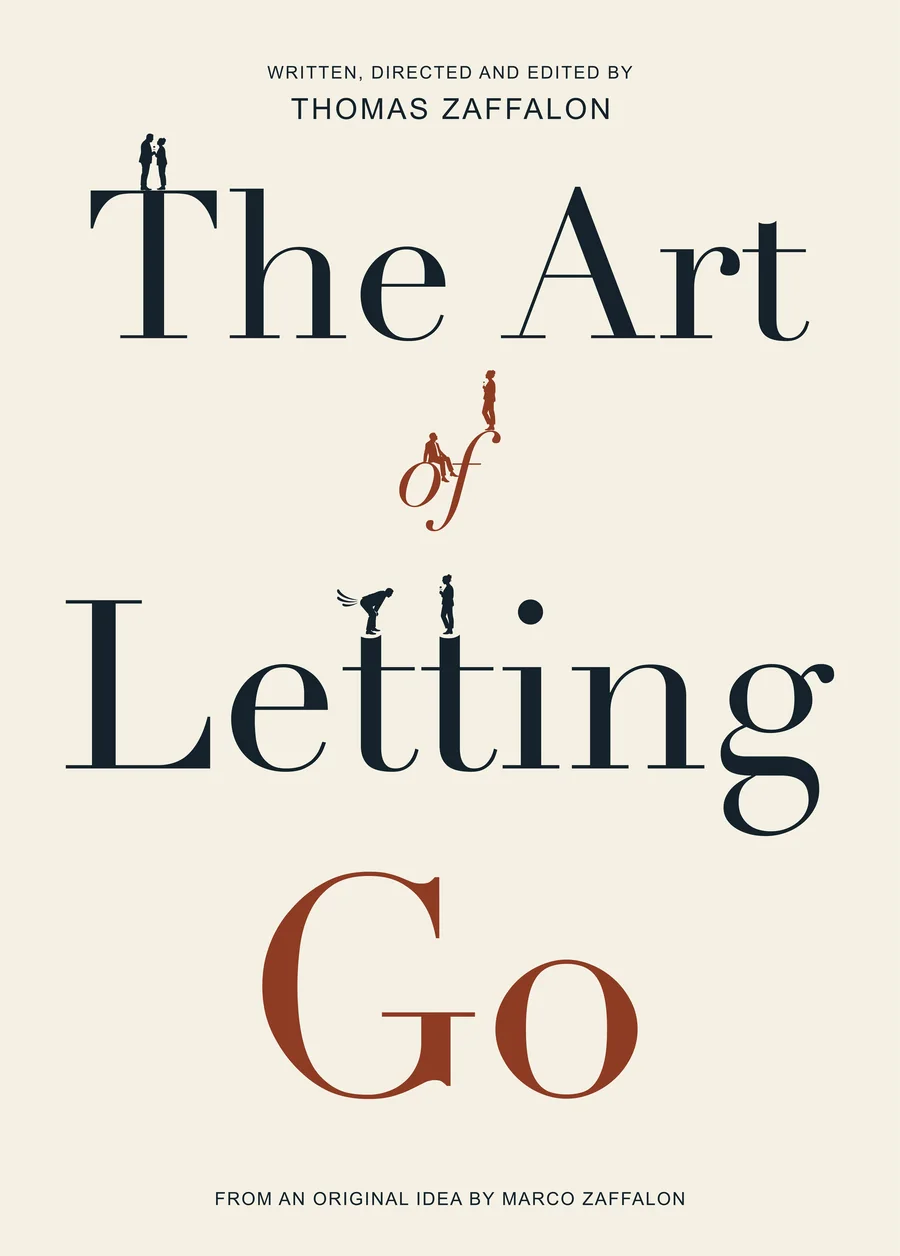
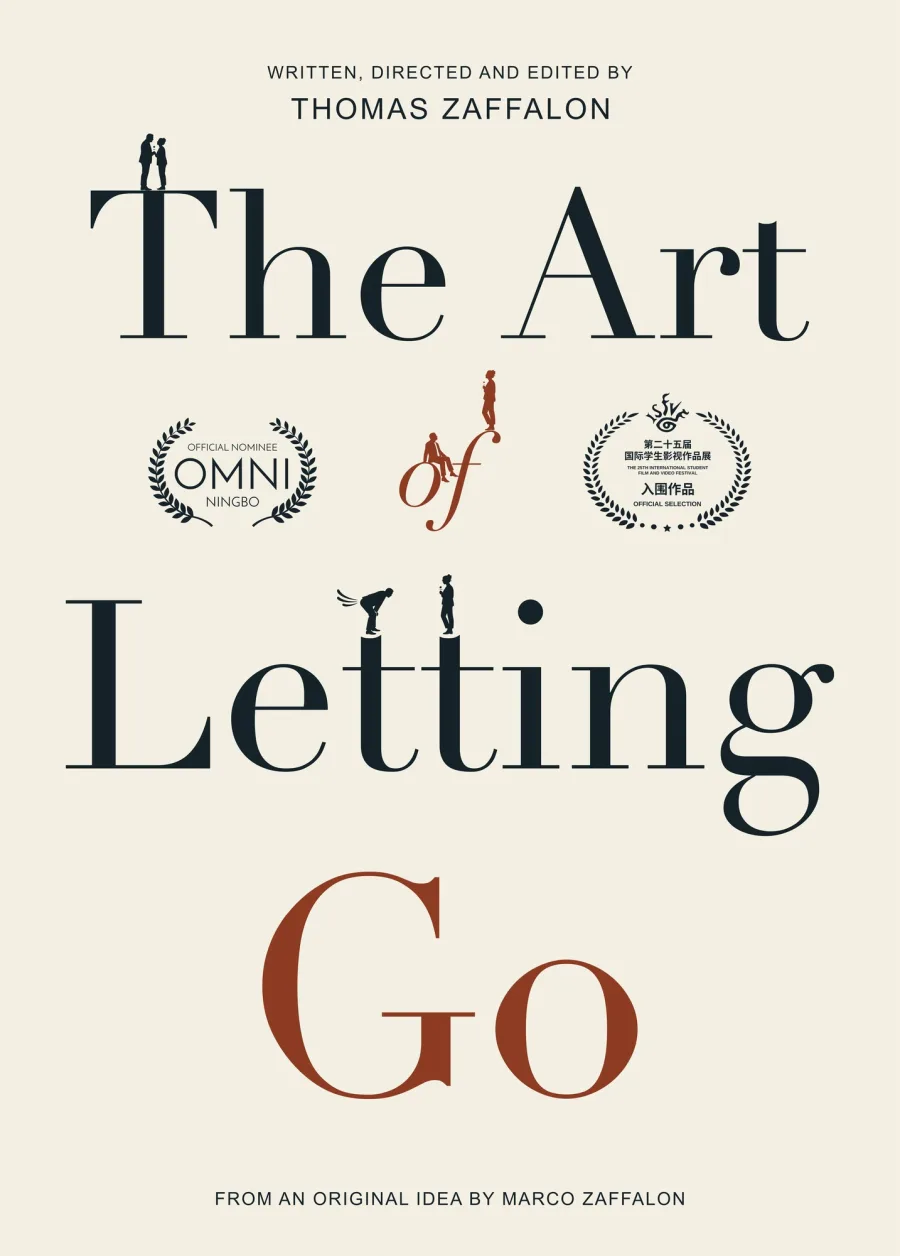
Racconta cosa ho costruito per il Merge e aggiorna le selezioni dei corti
- Merge Film Festival: in Apps passa in cima e la descrizione elenca la
  piattaforma (biglietti e accrediti con Stripe e TWINT, mail con Resend,
  scanner QR, voto del pubblico, sottotitoli tradotti in tempo reale).
  In Jobs il ruolo diventa CTO · Creative Technologist, come sul sito
  del festival, e la home dice cosa ho fatto lì.
- Short Films: The Art of Letting Go è Official Selection al 25° ISFVF
  (Beijing Film Academy) e Official Nominee a OMNI Ningbo; You Know What
  They Say... aggiunge OMNI Ningbo a TICFF. Locandine nuove con i laurel.
- Home: "01 Mention at RAIF Rome" diventa "05 Festival selections".
- Sitemap: lastmod aggiornato per le pagine toccate.

Changed region(s): [[0.1556, 0.3105, 0.3733, 0.4347], [0.6533, 0.3105, 0.84, 0.4347], [0.7778, 0.4037, 0.8089, 0.4347]]

diff --git a/apps/index.html b/apps/index.html
@@ -4,9 +4,9 @@
   <meta charset="UTF-8">
   <title>Apps &amp; Websites — Thomas Zaffalon</title>
 
-  <meta name="description" content="Websites and apps built by Thomas Zaffalon: La Brace, Keyo Tattoo Studio, Samuel Rhawi, Merge Film Festival and PoPaCi Studio. Hand-coded in Lugano.">
+  <meta name="description" content="Websites and apps built by Thomas Zaffalon: the Merge Film Festival platform, PoPaCi Studio, Pasta Lovers, La Brace, Keyo Tattoo Studio and more.">
   <meta name="author" content="Thomas Zaffalon">
-  <meta name="keywords" content="Thomas Zaffalon apps, Pasta Lovers, La Brace, Keyo Tattoo Studio, Ondus Tattoo, Samuel Rhawi, Merge Film Festival, PoPaCi, PoPaCi Studio, management platform, Next.js, React, Supabase, full-stack, Pronto Pizza da Fabio, Echo Maze, TurnTale, WeathAff, web development, custom websites, Lugano, portfolio">
+  <meta name="keywords" content="Thomas Zaffalon apps, Pasta Lovers, La Brace, Keyo Tattoo Studio, Ondus Tattoo, Samuel Rhawi, Merge Film Festival, festival ticketing, Stripe, TWINT, Resend, live captions, real-time translation, audience vote, QR check-in, PoPaCi, PoPaCi Studio, management platform, Next.js, React, Supabase, full-stack, Pronto Pizza da Fabio, Echo Maze, TurnTale, WeathAff, web development, custom websites, Lugano, portfolio">
 
   <meta name="viewport" content="width=device-width, initial-scale=1.0">
   <meta name="theme-color" content="#0a0a0b">
@@ -49,14 +49,14 @@
           "@type": "ItemList",
           "itemListOrder": "https://schema.org/ItemListOrderDescending",
           "itemListElement": [
-            {"@type": "ListItem", "position": 1, "item": {"@type": "WebSite", "name": "Pasta Lovers", "url": "https://pastalovers.com.au", "creator": {"@type": "Person", "name": "Thomas Zaffalon"}}},
-            {"@type": "ListItem", "position": 2, "item": {"@type": "WebSite", "name": "La Brace", "url": "https://labrace.ch", "creator": {"@type": "Person", "name": "Thomas Zaffalon"}}},
-            {"@type": "ListItem", "position": 3, "item": {"@type": "WebApplication", "name": "PoPaCi Studio", "url": "https://studio.popaci.com", "applicationCategory": "BusinessApplication", "author": {"@type": "Person", "name": "Thomas Zaffalon"}}},
-            {"@type": "ListItem", "position": 4, "item": {"@type": "WebSite", "name": "Keyo Tattoo Studio", "url": "https://keyotattoostudio.ch", "creator": {"@type": "Person", "name": "Thomas Zaffalon"}}},
-            {"@type": "ListItem", "position": 5, "item": {"@type": "VideoGame", "name": "Echo Maze", "url": "https://www.echomaze.quest", "applicationCategory": "Game", "author": {"@type": "Person", "name": "Thomas Zaffalon"}}},
-            {"@type": "ListItem", "position": 6, "item": {"@type": "WebSite", "name": "Samuel Rhawi By Nursel", "url": "https://samuelrhawibynursel.com", "creator": {"@type": "Person", "name": "Thomas Zaffalon"}}},
-            {"@type": "ListItem", "position": 7, "item": {"@type": "WebSite", "name": "Ondus Tattoo", "url": "https://www.ondustattoo.ink", "creator": {"@type": "Person", "name": "Thomas Zaffalon"}}},
-            {"@type": "ListItem", "position": 8, "item": {"@type": "WebSite", "name": "Merge Film Festival", "url": "https://www.mergefestival.ch", "creator": {"@type": "Person", "name": "Thomas Zaffalon"}}},
+            {"@type": "ListItem", "position": 1, "item": {"@type": "WebSite", "name": "Merge Film Festival", "url": "https://www.mergefestival.ch", "description": "Site and festival platform: passes, ticketing, payments, QR check-in, audience vote and live translated captions.", "creator": {"@type": "Person", "name": "Thomas Zaffalon"}}},
+            {"@type": "ListItem", "position": 2, "item": {"@type": "WebSite", "name": "Pasta Lovers", "url": "https://pastalovers.com.au", "creator": {"@type": "Person", "name": "Thomas Zaffalon"}}},
+            {"@type": "ListItem", "position": 3, "item": {"@type": "WebSite", "name": "La Brace", "url": "https://labrace.ch", "creator": {"@type": "Person", "name": "Thomas Zaffalon"}}},
+            {"@type": "ListItem", "position": 4, "item": {"@type": "WebApplication", "name": "PoPaCi Studio", "url": "https://studio.popaci.com", "applicationCategory": "BusinessApplication", "author": {"@type": "Person", "name": "Thomas Zaffalon"}}},
+            {"@type": "ListItem", "position": 5, "item": {"@type": "WebSite", "name": "Keyo Tattoo Studio", "url": "https://keyotattoostudio.ch", "creator": {"@type": "Person", "name": "Thomas Zaffalon"}}},
+            {"@type": "ListItem", "position": 6, "item": {"@type": "VideoGame", "name": "Echo Maze", "url": "https://www.echomaze.quest", "applicationCategory": "Game", "author": {"@type": "Person", "name": "Thomas Zaffalon"}}},
+            {"@type": "ListItem", "position": 7, "item": {"@type": "WebSite", "name": "Samuel Rhawi By Nursel", "url": "https://samuelrhawibynursel.com", "creator": {"@type": "Person", "name": "Thomas Zaffalon"}}},
+            {"@type": "ListItem", "position": 8, "item": {"@type": "WebSite", "name": "Ondus Tattoo", "url": "https://www.ondustattoo.ink", "creator": {"@type": "Person", "name": "Thomas Zaffalon"}}},
             {"@type": "ListItem", "position": 9, "item": {"@type": "WebSite", "name": "PoPaCi", "url": "https://www.popaci.com", "creator": {"@type": "Person", "name": "Thomas Zaffalon"}}},
             {"@type": "ListItem", "position": 10, "item": {"@type": "WebSite", "name": "Pronto Pizza da Fabio", "url": "https://www.ristoranteppdafabio.it", "creator": {"@type": "Person", "name": "Thomas Zaffalon"}}},
             {"@type": "ListItem", "position": 11, "item": {"@type": "MobileApplication", "name": "TurnTale", "url": "https://turntale-indol.vercel.app", "applicationCategory": "GameApplication", "author": {"@type": "Person", "name": "Thomas Zaffalon"}}},
@@ -134,9 +134,33 @@
 
     <ul class="plist">
 
+      <li class="pitem" data-hover-img="/images/mff.jpg">
+        <a class="pitem__link" href="https://www.mergefestival.ch" target="_blank" rel="noopener" data-cursor="Visit">
+          <span class="pitem__idx">01</span>
+          <div class="pitem__head">
+            <h2 class="pitem__title">Merge Film Festival</h2>
+            <div class="pitem__tags">
+              <span class="tag">Website &amp; Platform</span>
+              <span class="tag tag--hl">Supabase · Stripe · Resend</span>
+              <span class="tag">2026</span>
+            </div>
+          </div>
+          <figure class="pitem__thumb"><img src="/images/mff.jpg" alt="" loading="lazy"></figure>
+          <p class="pitem__desc">
+            The first Swiss festival for films made with artificial
+            intelligence, founded by my former CISA classmates. It started as
+            a site in four languages and became the festival's whole system:
+            passes and tickets paid by card or TWINT, emails through Resend,
+            QR scanning at the door, the audience vote and live captions
+            translated in real time during the talks.
+          </p>
+          <span class="pitem__go">Live <svg viewBox="0 0 12 12" fill="none" aria-hidden="true"><path d="M2 10 10 2M4 2h6v6" stroke="currentColor" stroke-width="1.3"/></svg></span>
+        </a>
+      </li>
+
       <li class="pitem" data-hover-img="/images/pastalovers.png">
         <a class="pitem__link" href="https://pastalovers.com.au" target="_blank" rel="noopener" data-cursor="Visit">
-          <span class="pitem__idx">01</span>
+          <span class="pitem__idx">02</span>
           <div class="pitem__head">
             <h2 class="pitem__title">Pasta Lovers</h2>
             <div class="pitem__tags">
@@ -158,7 +182,7 @@
 
       <li class="pitem" data-hover-img="/images/labrace.png">
         <a class="pitem__link" href="https://labrace.ch" target="_blank" rel="noopener" data-cursor="Visit">
-          <span class="pitem__idx">02</span>
+          <span class="pitem__idx">03</span>
           <div class="pitem__head">
             <h2 class="pitem__title">La Brace</h2>
             <div class="pitem__tags">
@@ -181,7 +205,7 @@
 
       <li class="pitem" data-hover-img="/images/popaci_studio.jpg">
         <a class="pitem__link" href="https://studio.popaci.com" target="_blank" rel="noopener" data-cursor="Visit">
-          <span class="pitem__idx">03</span>
+          <span class="pitem__idx">04</span>
           <div class="pitem__head">
             <h2 class="pitem__title">PoPaCi Studio</h2>
             <div class="pitem__tags">
@@ -206,7 +230,7 @@
 
       <li class="pitem" data-hover-img="/images/keyo.jpg">
         <a class="pitem__link" href="https://keyotattoostudio.ch" target="_blank" rel="noopener" data-cursor="Visit">
-          <span class="pitem__idx">04</span>
+          <span class="pitem__idx">05</span>
           <div class="pitem__head">
             <h2 class="pitem__title">Keyo Tattoo Studio</h2>
             <div class="pitem__tags">
@@ -227,7 +251,7 @@
 
       <li class="pitem" data-hover-img="/images/echo_maze.svg">
         <a class="pitem__link" href="https://www.echomaze.quest" target="_blank" rel="noopener" data-cursor="Play">
-          <span class="pitem__idx">05</span>
+          <span class="pitem__idx">06</span>
           <div class="pitem__head">
             <h2 class="pitem__title">Echo Maze</h2>
             <div class="pitem__tags">
@@ -247,7 +271,7 @@
 
       <li class="pitem" data-hover-img="/images/samuel-rhawi.webp">
         <a class="pitem__link" href="https://samuelrhawibynursel.com" target="_blank" rel="noopener" data-cursor="Visit">
-          <span class="pitem__idx">06</span>
+          <span class="pitem__idx">07</span>
           <div class="pitem__head">
             <h2 class="pitem__title">Samuel Rhawi By Nursel</h2>
             <div class="pitem__tags">
@@ -268,7 +292,7 @@
 
       <li class="pitem" data-hover-img="/images/ondus.jpg">
         <a class="pitem__link" href="https://www.ondustattoo.ink" target="_blank" rel="noopener" data-cursor="Visit">
-          <span class="pitem__idx">07</span>
+          <span class="pitem__idx">08</span>
           <div class="pitem__head">
             <h2 class="pitem__title">Ondus Tattoo</h2>
             <div class="pitem__tags">
@@ -282,28 +306,6 @@
             My first site for an independent business with no presence online
             at all. The look was already there in the studio. My job was
             getting it onto a screen without losing it.
-          </p>
-          <span class="pitem__go">Live <svg viewBox="0 0 12 12" fill="none" aria-hidden="true"><path d="M2 10 10 2M4 2h6v6" stroke="currentColor" stroke-width="1.3"/></svg></span>
-        </a>
-      </li>
-
-      <li class="pitem" data-hover-img="/images/mff.jpg">
-        <a class="pitem__link" href="https://www.mergefestival.ch" target="_blank" rel="noopener" data-cursor="Visit">
-          <span class="pitem__idx">08</span>
-          <div class="pitem__head">
-            <h2 class="pitem__title">Merge Film Festival</h2>
-            <div class="pitem__tags">
-              <span class="tag">Website</span>
-              <span class="tag tag--hl">First Swiss AI film festival</span>
-              <span class="tag">2026</span>
-            </div>
-          </div>
-          <figure class="pitem__thumb"><img src="/images/mff.jpg" alt="" loading="lazy"></figure>
-          <p class="pitem__desc">
-            The first Swiss festival for films made with artificial
-            intelligence, founded by my former CISA classmates. They asked for
-            something minimal, fast and clear about what the festival actually
-            is.
           </p>
           <span class="pitem__go">Live <svg viewBox="0 0 12 12" fill="none" aria-hidden="true"><path d="M2 10 10 2M4 2h6v6" stroke="currentColor" stroke-width="1.3"/></svg></span>
         </a>

diff --git a/shortfilms/index.html b/shortfilms/index.html
@@ -4,9 +4,9 @@
   <meta charset="UTF-8">
   <title>Short Films — Thomas Zaffalon</title>
 
-  <meta name="description" content="Short films by Thomas Zaffalon: The Art of Letting Go, You Know What They Say... (Official Selection, TICFF Trikala) and In the Depths of the Sea.">
+  <meta name="description" content="Short films by Thomas Zaffalon: The Art of Letting Go (ISFVF Beijing, OMNI), You Know What They Say... (TICFF Trikala, OMNI) and In the Depths of the Sea.">
   <meta name="author" content="Thomas Zaffalon">
-  <meta name="keywords" content="Thomas Zaffalon short films, The Art of Letting Go, You Know What They Say, TICFF, Trikala International Comedy Film Festival, Official Selection, Seedance, In the Depths of the Sea, AI short film, AI music video, RAIF, Rome AI Festival, Best AI Music Video, filmmaking portfolio, CISA film projects, Io Lui e l'Altro, independent short films, director, Lugano">
+  <meta name="keywords" content="Thomas Zaffalon short films, The Art of Letting Go, You Know What They Say, ISFVF, International Student Film and Video Festival, Beijing Film Academy, OMNI International AI Film Festival, OMNI Ningbo Youth AI Film Festival, Official Nominee, TICFF, Trikala International Comedy Film Festival, Official Selection, Seedance, In the Depths of the Sea, AI short film, AI music video, RAIF, Rome AI Festival, Best AI Music Video, filmmaking portfolio, CISA film projects, Io Lui e l'Altro, independent short films, director, Lugano">
 
   <meta name="viewport" content="width=device-width, initial-scale=1.0">
   <meta name="theme-color" content="#0a0a0b">
@@ -16,7 +16,7 @@
   <meta property="og:type" content="website">
   <meta property="og:site_name" content="Thomas Zaffalon">
   <meta property="og:title" content="Short Films — Thomas Zaffalon">
-  <meta property="og:description" content="Short films and audiovisual projects created by Thomas Zaffalon at CISA and during high school.">
+  <meta property="og:description" content="Short films by Thomas Zaffalon, from high school and CISA to AI shorts selected at ISFVF Beijing, OMNI and TICFF Trikala.">
   <meta property="og:url" content="https://www.tommyzaffa.com/shortfilms/">
   <meta property="og:image" content="https://www.tommyzaffa.com/images/og/shortfilms.jpg">
   <meta property="og:image:width" content="1200">
@@ -25,7 +25,7 @@
 
   <meta name="twitter:card" content="summary_large_image">
   <meta name="twitter:title" content="Short Films — Thomas Zaffalon">
-  <meta name="twitter:description" content="Short films and audiovisual projects created by Thomas Zaffalon at CISA and during high school.">
+  <meta name="twitter:description" content="Short films by Thomas Zaffalon, from high school and CISA to AI shorts selected at ISFVF Beijing, OMNI and TICFF Trikala.">
   <meta name="twitter:image" content="https://www.tommyzaffa.com/images/og/shortfilms.jpg">
 
   <script type="application/ld+json">
@@ -49,8 +49,8 @@
           "@type": "ItemList",
           "itemListOrder": "https://schema.org/ItemListOrderDescending",
           "itemListElement": [
-            {"@type": "ListItem", "position": 1, "item": {"@type": "Movie", "name": "The Art of Letting Go", "url": "https://vimeo.com/1218441949", "director": {"@type": "Person", "name": "Thomas Zaffalon"}}},
-            {"@type": "ListItem", "position": 2, "item": {"@type": "Movie", "name": "You Know What They Say...", "url": "https://vimeo.com/1218670339", "director": {"@type": "Person", "name": "Thomas Zaffalon"}, "award": "Official Selection, Trikala International Comedy Film Festival (TICFF) 2026"}},
+            {"@type": "ListItem", "position": 1, "item": {"@type": "Movie", "name": "The Art of Letting Go", "url": "https://vimeo.com/1218441949", "director": {"@type": "Person", "name": "Thomas Zaffalon"}, "award": ["Official Selection, 25th International Student Film and Video Festival (ISFVF), Beijing Film Academy 2026", "Official Nominee, OMNI × Ningbo Youth AI Film Festival 2026"]}},
+            {"@type": "ListItem", "position": 2, "item": {"@type": "Movie", "name": "You Know What They Say...", "url": "https://vimeo.com/1218670339", "director": {"@type": "Person", "name": "Thomas Zaffalon"}, "award": ["Official Selection, Trikala International Comedy Film Festival (TICFF) 2026", "Official Nominee, OMNI × Ningbo Youth AI Film Festival 2026"]}},
             {"@type": "ListItem", "position": 3, "item": {"@type": "MusicVideoObject", "name": "In the Depths of the Sea", "url": "https://youtu.be/Usxw2cymjg4", "creator": {"@type": "Person", "name": "Thomas Zaffalon"}, "award": "Honourable Mention, Best AI Music Video, RAIF (Rome AI Festival)"}},
             {"@type": "ListItem", "position": 4, "item": {"@type": "CreativeWork", "name": "CISA short films", "creator": {"@type": "Person", "name": "Thomas Zaffalon"}}},
             {"@type": "ListItem", "position": 5, "item": {"@type": "CreativeWorkSeries", "name": "Io Lui e l'Altro", "url": "https://youtube.com/@ioluielaltro1926", "creator": {"@type": "Person", "name": "Thomas Zaffalon"}}}
@@ -133,7 +133,8 @@
             <h2 class="pitem__title">The Art of Letting Go</h2>
             <div class="pitem__tags">
               <span class="tag">AI Short Film</span>
-              <span class="tag">Written &amp; Directed</span>
+              <span class="tag tag--hl">Official Selection · ISFVF Beijing</span>
+              <span class="tag tag--hl">Official Nominee · OMNI Ningbo</span>
               <span class="tag">2026</span>
             </div>
           </div>
@@ -141,7 +142,9 @@
           <p class="pitem__desc">
             My first independent short made entirely with artificial intelligence.
             A first date: dinner, a walk, a rose, a kiss. Nothing out of the
-            ordinary, depending on where you draw the line.
+            ordinary, depending on where you draw the line. Selected for the
+            25th ISFVF at the Beijing Film Academy and nominated at OMNI
+            Ningbo, where 90 films made it out of more than 1,000.
           </p>
           <span class="pitem__go">Vimeo <svg viewBox="0 0 12 12" fill="none" aria-hidden="true"><path d="M2 10 10 2M4 2h6v6" stroke="currentColor" stroke-width="1.3"/></svg></span>
         </a>
@@ -155,6 +158,7 @@
             <div class="pitem__tags">
               <span class="tag">AI Short Film</span>
               <span class="tag tag--hl">Official Selection · TICFF Trikala</span>
+              <span class="tag tag--hl">Official Nominee · OMNI Ningbo</span>
               <span class="tag">2026</span>
             </div>
           </div>
@@ -163,7 +167,8 @@
             My first AI short that simulates real places and real people, made
             with Seedance 2.5, the most advanced video model out there in 2026.
             I adapted it from a script of mine that we had already shot for
-            Io Lui e l'Altro.
+            Io Lui e l'Altro. Selected at TICFF in Trikala and nominated at
+            OMNI Ningbo, one of 90 films out of more than 1,000.
           </p>
           <span class="pitem__go">Vimeo <svg viewBox="0 0 12 12" fill="none" aria-hidden="true"><path d="M2 10 10 2M4 2h6v6" stroke="currentColor" stroke-width="1.3"/></svg></span>
         </a>
@@ -244,11 +249,11 @@
         <figcaption>Camera · location shoot</figcaption>
       </figure>
       <figure class="is-poster">
-        <div class="clip-img"><img src="/images/photos/poster-letting.webp" alt="The Art of Letting Go poster" width="900" height="1256" loading="lazy"></div>
+        <div class="clip-img"><img src="/images/photos/poster-letting.webp?v=2" alt="The Art of Letting Go poster with the ISFVF and OMNI laurels" width="900" height="1256" loading="lazy"></div>
         <figcaption>The Art of Letting Go · poster</figcaption>
       </figure>
       <figure class="is-poster">
-        <div class="clip-img"><img src="/images/photos/poster-youknow.webp" alt="You Know What They Say... poster" width="900" height="1350" loading="lazy"></div>
+        <div class="clip-img"><img src="/images/photos/poster-youknow.webp?v=2" alt="You Know What They Say... poster with the TICFF and OMNI laurels" width="900" height="1350" loading="lazy"></div>
         <figcaption>You Know What They Say... · poster</figcaption>
       </figure>
       <figure class="is-poster">

diff --git a/jobs-stages/index.html b/jobs-stages/index.html
@@ -4,9 +4,9 @@
   <meta charset="UTF-8">
   <title>Jobs &amp; Stages — Thomas Zaffalon</title>
 
-  <meta name="description" content="Roles and internships of Thomas Zaffalon: CTO at PoPaCi, Creative Technologist at the Merge Film Festival, Locarno Film Festival and JazzAscona.">
+  <meta name="description" content="Roles and internships of Thomas Zaffalon: CTO at PoPaCi, CTO &amp; Creative Technologist at the Merge Film Festival, Locarno Film Festival and JazzAscona.">
   <meta name="author" content="Thomas Zaffalon">
-  <meta name="keywords" content="Thomas Zaffalon jobs, CTO, Chief Technology Officer, Creative Technologist, PoPaCi, PoPaCi Studio, Merge Film Festival, internships, Spring Academy, Locarno Film Festival, JazzAscona, sound recordist, video editor, cameraman, audiovisual production, portfolio">
+  <meta name="keywords" content="Thomas Zaffalon jobs, CTO, Chief Technology Officer, Creative Technologist, PoPaCi, PoPaCi Studio, Merge Film Festival, festival ticketing, live captions, audience vote, internships, Spring Academy, Locarno Film Festival, JazzAscona, sound recordist, video editor, cameraman, audiovisual production, portfolio">
 
   <meta name="viewport" content="width=device-width, initial-scale=1.0">
   <meta name="theme-color" content="#0a0a0b">
@@ -50,7 +50,7 @@
           "itemListOrder": "https://schema.org/ItemListOrderDescending",
           "itemListElement": [
             {"@type": "ListItem", "position": 1, "name": "PoPaCi (CTO, 2026-present)"},
-            {"@type": "ListItem", "position": 2, "name": "Merge Film Festival (Creative Technologist, 2026-present)"},
+            {"@type": "ListItem", "position": 2, "name": "Merge Film Festival (CTO & Creative Technologist, 2026-present)"},
             {"@type": "ListItem", "position": 3, "name": "Spring Academy (sound recordist, 2024)"},
             {"@type": "ListItem", "position": 4, "name": "Locarno Film Festival (video editor, cameraman, sound recordist, 2023-2024)"},
             {"@type": "ListItem", "position": 5, "name": "JazzAscona (video editor, cameraman, sound recordist, 2023)"},
@@ -155,16 +155,17 @@
           <div class="pitem__head">
             <h2 class="pitem__title">Merge Film Festival</h2>
             <div class="pitem__tags">
-              <span class="tag tag--hl">Creative Technologist</span>
+              <span class="tag tag--hl">CTO · Creative Technologist</span>
               <span class="tag">2026 to today</span>
               <span class="tag">Switzerland</span>
             </div>
           </div>
           <figure class="pitem__thumb"><img src="/images/mff.jpg" alt="" loading="lazy"></figure>
           <p class="pitem__desc">
-            The first Swiss festival for films made with AI. I look after the
-            technical side: the public site and the internal tools the
-            selection committee and the team work in.
+            The first Swiss festival for films made with AI. I built and ran
+            all of its tech: the site, ticketing and accreditations, QR
+            scanners at the door, the audience vote, live translated captions
+            for the talks and the tools the juries worked in.
           </p>
           <span class="pitem__go">Festival <svg viewBox="0 0 12 12" fill="none" aria-hidden="true"><path d="M2 10 10 2M4 2h6v6" stroke="currentColor" stroke-width="1.3"/></svg></span>
         </a>

diff --git a/index.html b/index.html
@@ -264,8 +264,9 @@
             semester at Sapienza in Rome.
           </p>
           <p>
-            Right now I'm CTO at PoPaCi and Creative Technologist at the Merge Film
-            Festival, the first Swiss festival for films made with AI. The rest
+            Right now I'm CTO at PoPaCi and at the Merge Film Festival, the
+            first Swiss festival for films made with AI, where I built
+            everything from the ticketing to live translated captions. The rest
             of the time I build websites for restaurants, tattoo studios and
             fashion boutiques, and I release music with a couple of bands.
           </p>
@@ -275,7 +276,7 @@
           <div class="fact"><b>12</b><span>Sites &amp; apps shipped</span></div>
           <div class="fact"><b>04</b><span>Bands &amp; solo projects</span></div>
           <div class="fact"><b>07</b><span>Jobs &amp; internships</span></div>
-          <div class="fact"><b>01</b><span>Mention at RAIF Rome</span></div>
+          <div class="fact"><b>05</b><span>Festival selections</span></div>
         </div>
       </div>
     </section>
